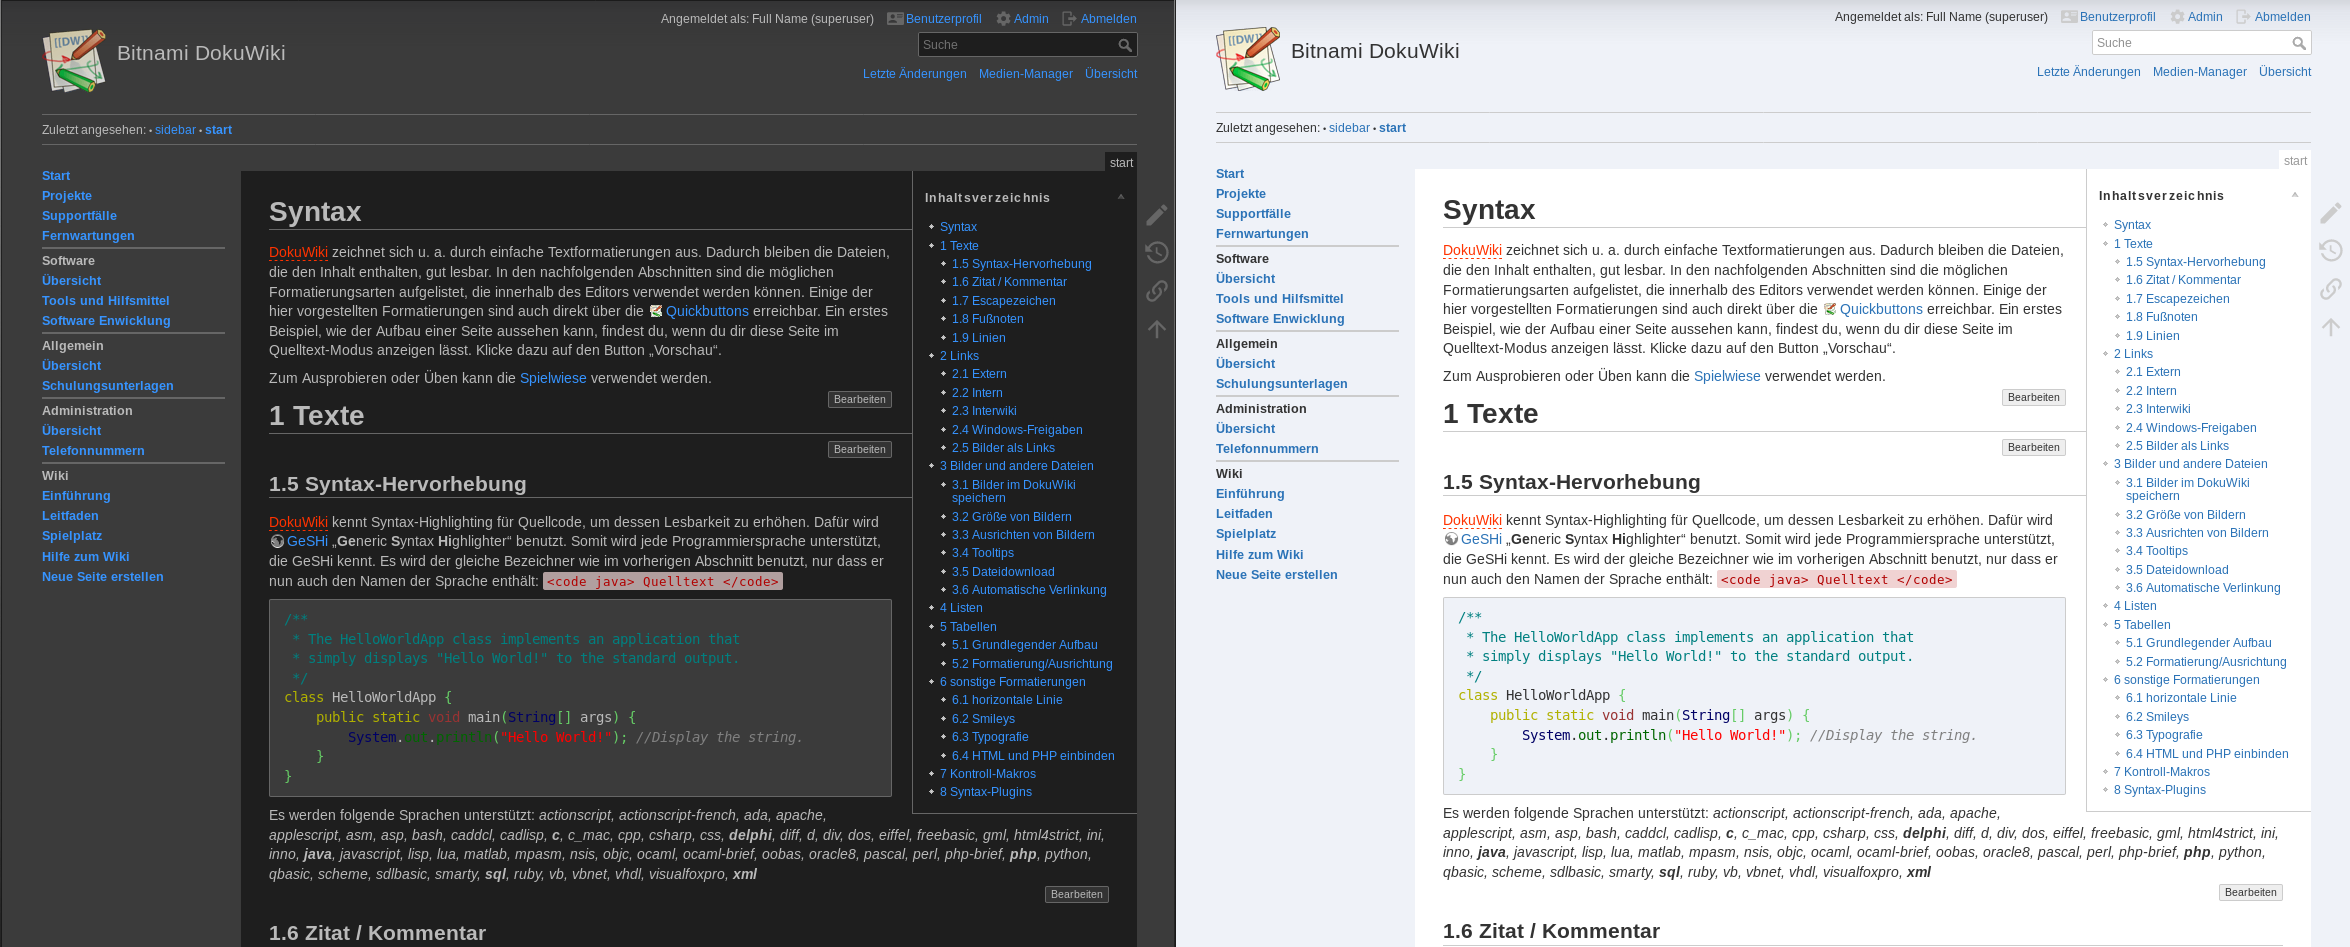
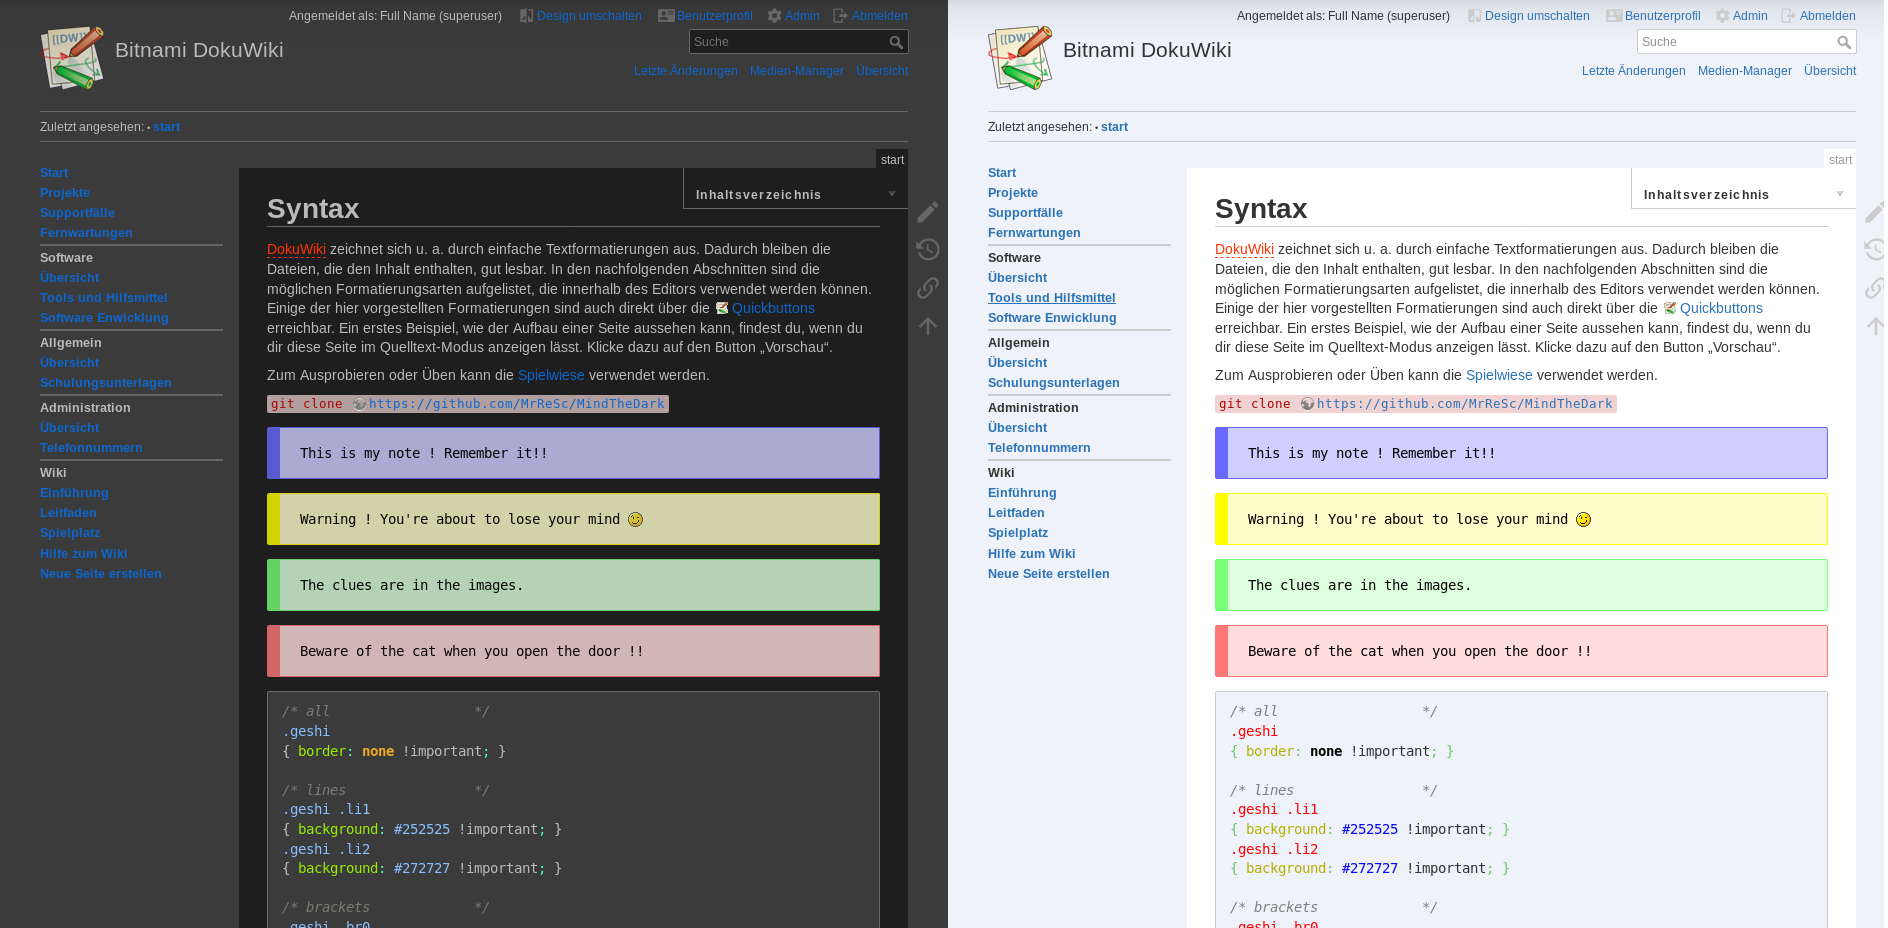
update readme

diff --git a/README.md b/README.md
@@ -21,6 +21,12 @@ If neither of the two options is selected, a static color scheme can be selected
 * and all features the standard [DokuWiki Template](https://www.dokuwiki.org/template:dokuwiki#features) offers
 * light and dark color theme for syntax highlighting in GeShi (thx @pv2b, @asfethan)
 
+## Plugin Support
+### Note Plugin
+If [Note Plugin](https://www.dokuwiki.org/plugin:note) is installed you can activate the support with the option `pluginNote` in the configuration manager. If the option `pluginNote` is enabled, the base colors of the notes can also be changed.
+
+![screenshot](screenshot/screenshot_note_plugin.png)
+
 ## Customizing
 The MindTheDark Template offers all customizing like the standard [DokuWiki Template](https://www.dokuwiki.org/template:dokuwiki#customizing).
 
@@ -33,6 +39,10 @@ Additionally to the standard guaranteed [style.ini](https://www.dokuwiki.org/dev
 | `__pre_background_color__`            | backgroung color of inline code formating|
 | `__selection_color__`                 | text color of selection|
 | `__selection_background_color__`      | backgroung color of selection|
+| `__note_plugin_classic_color__`       | base color for note plugin `<classic>`|
+| `__note_plugin_important_color__`     | base color for note plugin `<important>`|
+| `__note_plugin_warning_color__`       | base color for note plugin `<warning>`|
+| `__note_plugin_tip_color__`           | base color for note plugin `<tip>`|
 
 ## Localization
 The texts are translated into German and English. Contributions are welcome.
